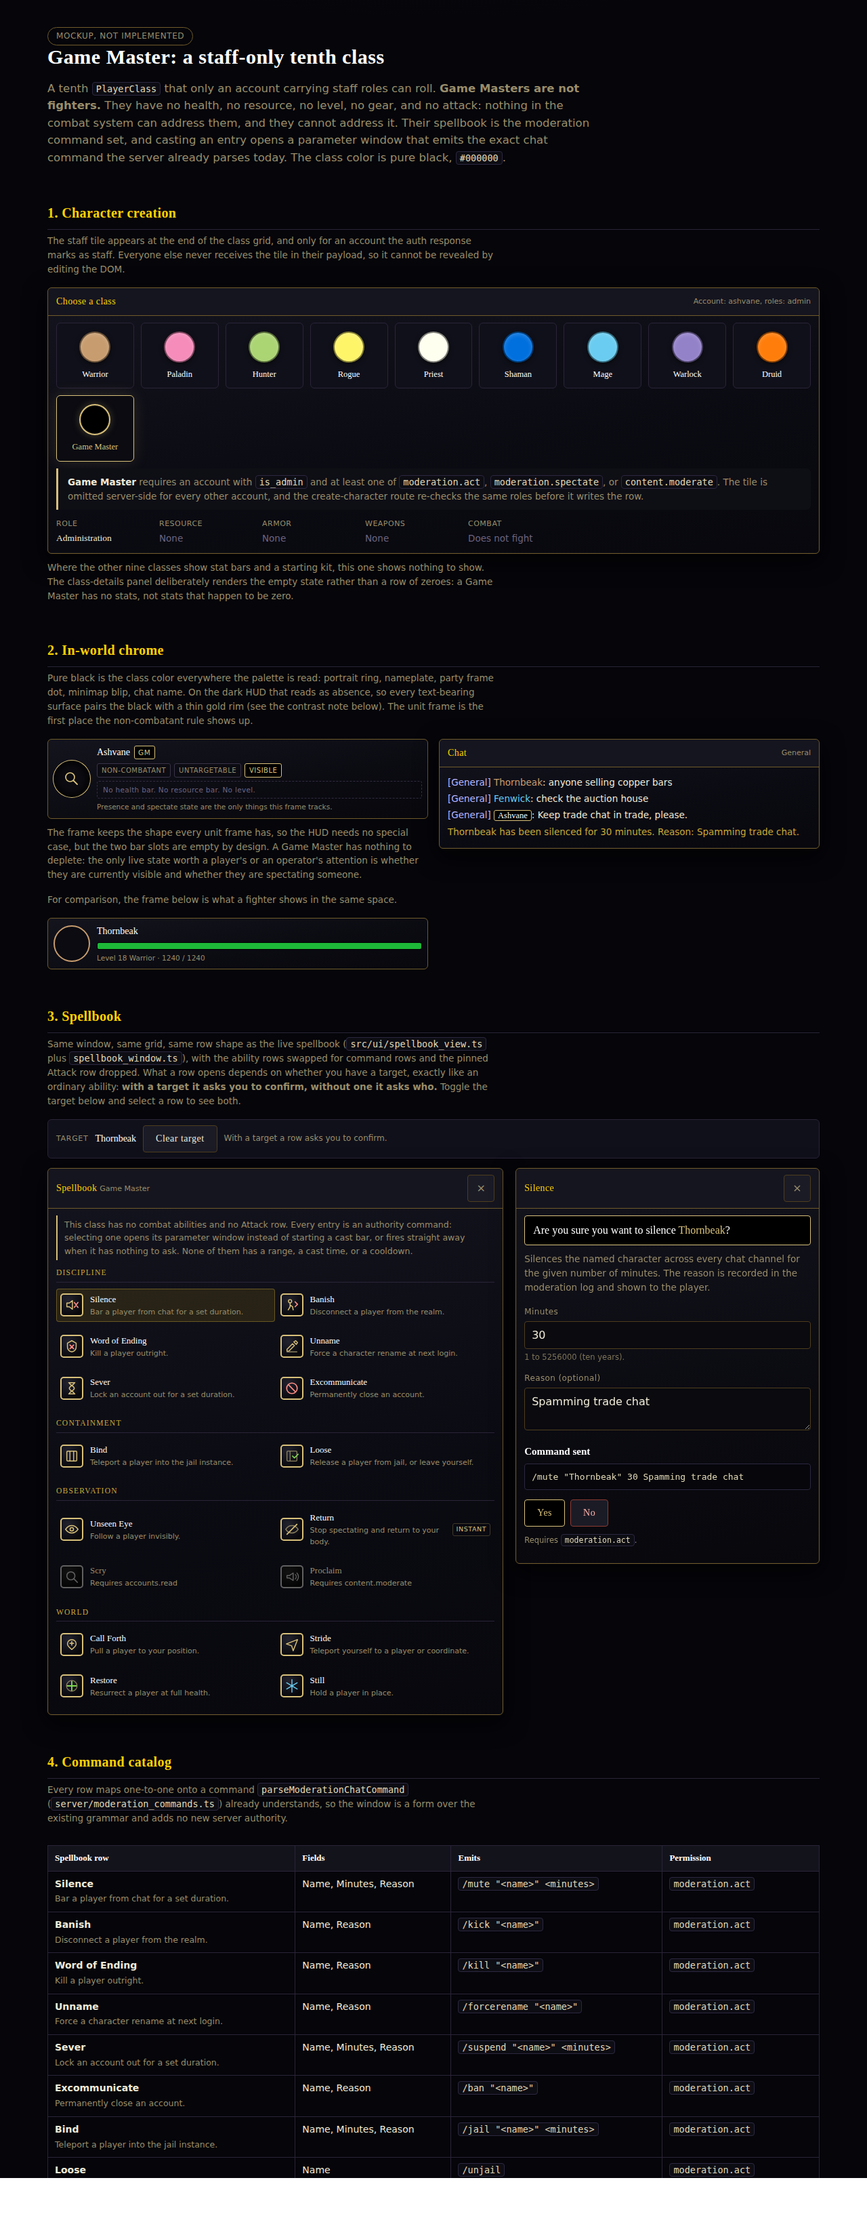
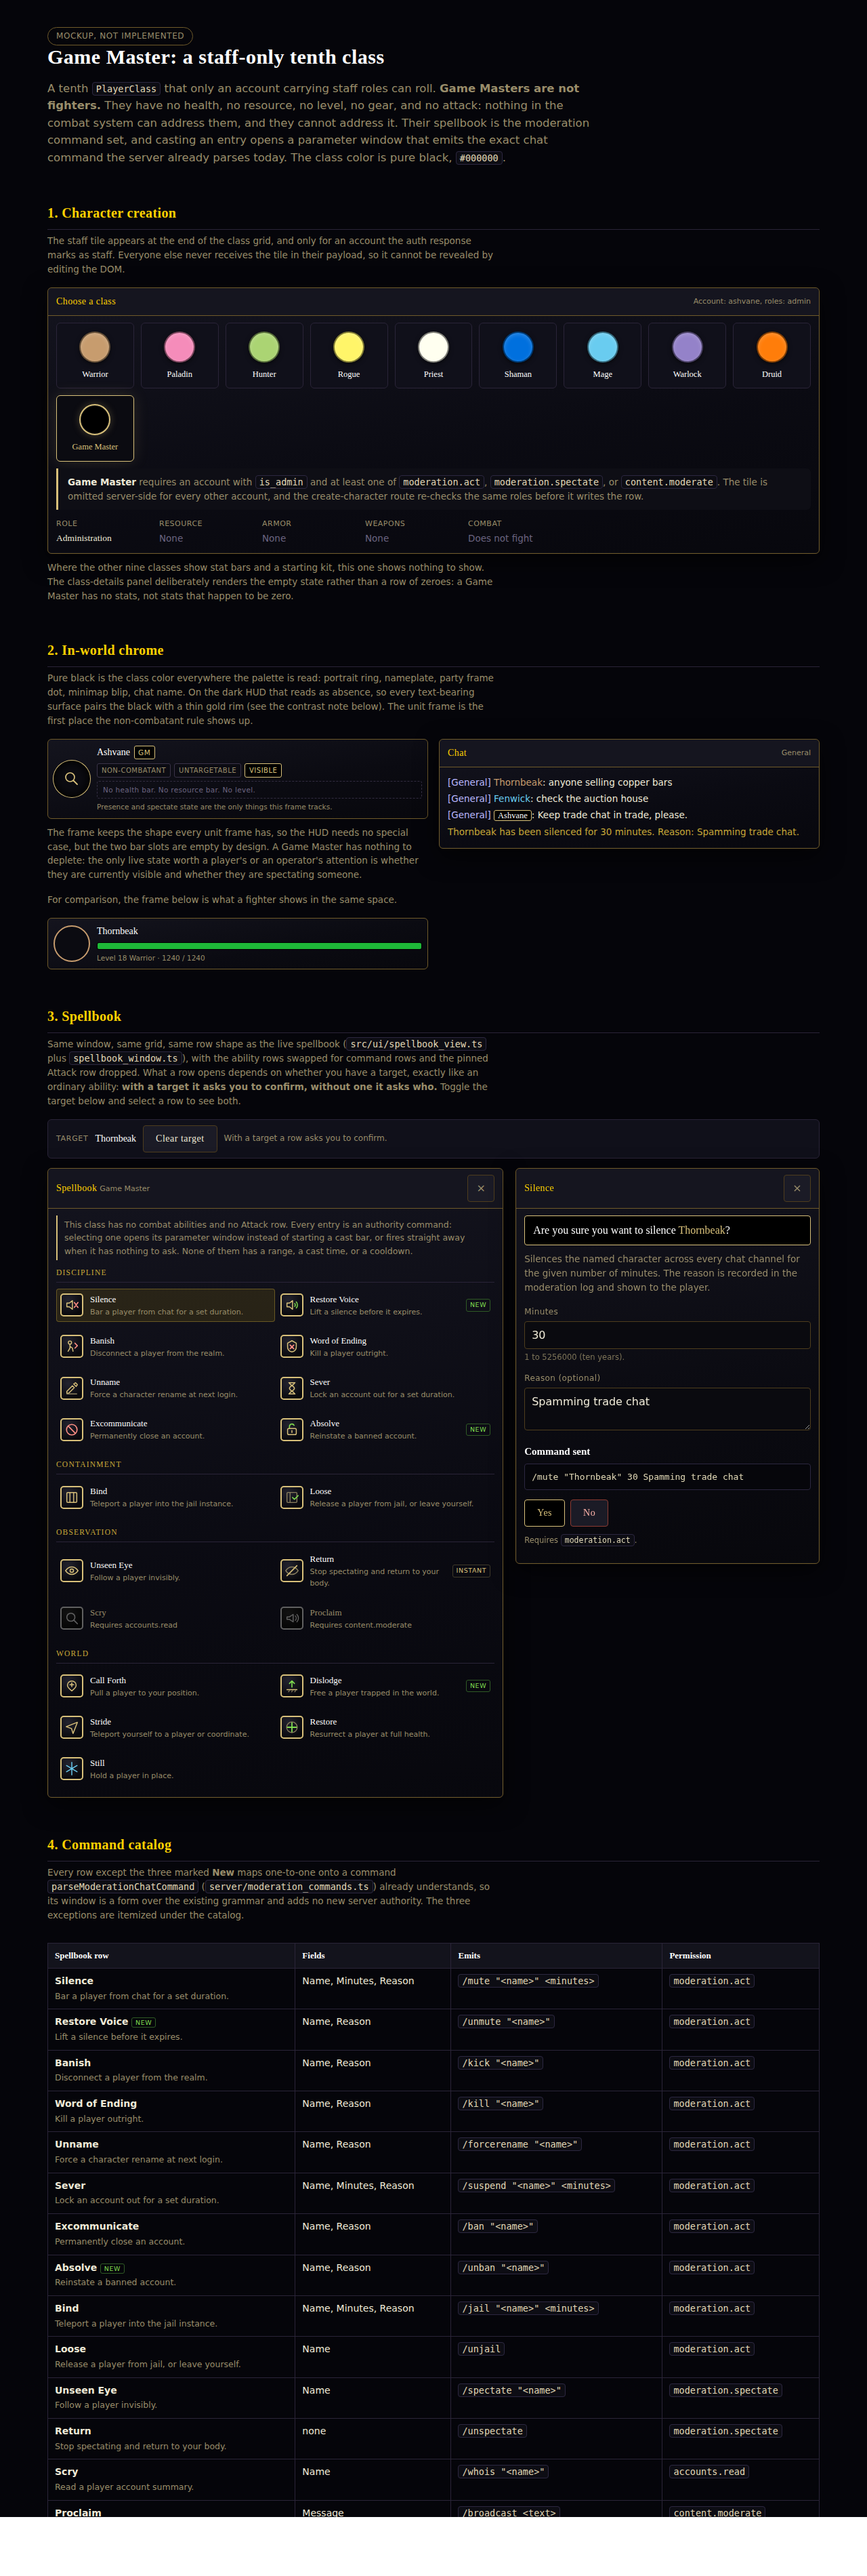
feat(docs): add unmute, unban and unstuck to the Game Master book
Reversals matter as much as sanctions, so the book gains Restore Voice
(/unmute), Absolve (/unban) and Dislodge (/unstuck), paired next to the
rows they undo. None of the three is a chat command today, unlike every
other row, so each carries a New chip and a note in its window saying
what it would actually cost. The catalog caption no longer claims the
whole book maps onto the existing grammar.

Restore Voice and Absolve are cheap: the capability already exists from
the dashboard, and the moderation log already speaks their vocabulary
(chat_unmute and unban are existing ModerationAction values), so the work
is a command parse plus a handler calling the same service. Dislodge is
not cheap and should not ride along with them: nothing in the sim or
server has the concept of being stuck, so the real work is a
deterministic sim-side resolver for where a freed player lands, with the
nearest graveyard the obvious existing anchor. It is also the row most
open to abuse as a convenience teleport, so it stays position-only and
logged like a sanction.

Absolve introduces the first row that ignores the target: a banned
account cannot be logged in, so there is never a target to read and it
always asks for the name. That is a `neverTargeted` flag on the record
rather than a special case in the window, and targetable() now gates the
confirm, field and instant paths through one predicate.

Claude-Session: https://claude.ai/code/session_012bGQz4hsnH1YFBGZWnVcjq

diff --git a/docs/design/game-master-class.html b/docs/design/game-master-class.html
@@ -211,10 +211,16 @@
   .spell-row:hover { background: #ffffff0e; }
   .spell-row:focus-visible { outline: 2px solid var(--color-border-focus); outline-offset: 2px; background: #ffd1001f; }
   .spell-row[aria-current="true"] { background: #ffd1001a; box-shadow: inset 0 0 0 1px #c8a83866; }
-  .instant-chip {
+  .instant-chip, .new-chip {
     flex: none; align-self: center; font-size: 9.5px; letter-spacing: 0.6px; text-transform: uppercase;
     color: var(--gm-rim); border: 1px solid #3f3a2a; border-radius: 3px; padding: 1px 5px;
   }
+  .new-chip { color: #7fdc4f; border-color: #2f5a25; }
+  .proposed-note {
+    margin: 0 0 10px; padding: 8px 12px; border-radius: 0 4px 4px 0;
+    border-left: 3px solid #7fdc4f; background: #0c1410; font-size: 12.5px; color: #cfe6c8;
+  }
+  .proposed-note[hidden] { display: none; }
   .spell-row.locked { cursor: not-allowed; }
   .spell-row.locked .spell-icon { filter: grayscale(1) brightness(0.5); }
   .spell-row.locked .spell-name { color: var(--color-text-muted); }
@@ -308,6 +314,9 @@
     <g id="gl-revive"><path d="M12 4v16M4 12h16" stroke="#7fdc4f" stroke-width="2" stroke-linecap="round"/><circle cx="12" cy="12" r="8.5" fill="none" stroke="#8a7f5e" stroke-width="1.4"/></g>
     <g id="gl-freeze"><path d="M12 2v20M3.5 7l17 10M20.5 7l-17 10" stroke="#69ccf0" stroke-width="1.6" stroke-linecap="round"/></g>
     <g id="gl-whois"><circle cx="10.5" cy="10.5" r="6.5" fill="none" stroke="#d8c07a" stroke-width="1.7"/><path d="M15.5 15.5L21 21" stroke="#d8c07a" stroke-width="1.8" stroke-linecap="round"/></g>
+    <g id="gl-unmute"><path d="M4 9h4l5-4v14l-5-4H4z" fill="none" stroke="#d8c07a" stroke-width="1.6" stroke-linejoin="round"/><path d="M16.5 9.5a4 4 0 010 5M19 7a7.5 7.5 0 010 10" fill="none" stroke="#7fdc4f" stroke-width="1.6" stroke-linecap="round"/></g>
+    <g id="gl-unban"><path d="M8 10V7a4 4 0 017.5-2" fill="none" stroke="#7fdc4f" stroke-width="1.7" stroke-linecap="round"/><rect x="5" y="10" width="14" height="10" rx="2" fill="none" stroke="#d8c07a" stroke-width="1.6"/><path d="M12 13.5v3" stroke="#d8c07a" stroke-width="1.7" stroke-linecap="round"/></g>
+    <g id="gl-unstuck"><path d="M12 14V4M8 8l4-4 4 4" fill="none" stroke="#7fdc4f" stroke-width="1.8" stroke-linecap="round" stroke-linejoin="round"/><path d="M4 18h16" stroke="#d8c07a" stroke-width="1.7" stroke-linecap="round"/><path d="M6.5 21.5l1.5-2M11.5 21.5l1.5-2M16.5 21.5l1.5-2" stroke="#8a7f5e" stroke-width="1.4" stroke-linecap="round"/></g>
     <g id="gl-broadcast"><path d="M4 10v4h4l6 4V6l-6 4z" fill="none" stroke="#d8c07a" stroke-width="1.6" stroke-linejoin="round"/><path d="M17.5 8.5a5 5 0 010 7M20 6a8.5 8.5 0 010 12" fill="none" stroke="#d8c07a" stroke-width="1.5" stroke-linecap="round"/></g>
   </defs>
 </svg>
@@ -451,6 +460,7 @@
         <button type="button" class="x-btn" aria-label="Close command window" id="cmd-close">&times;</button>
       </div>
       <p class="confirm-question" id="cmd-question" hidden></p>
+      <p class="proposed-note" id="cmd-proposed" hidden></p>
       <p class="cap" id="cmd-desc" style="margin-top:0"></p>
       <form id="cmd-form" novalidate></form>
       <h3 style="margin:6px 0 6px">Command sent</h3>
@@ -466,9 +476,10 @@
 
   <h2>4. Command catalog</h2>
   <p class="cap">
-    Every row maps one-to-one onto a command <code>parseModerationChatCommand</code>
-    (<code>server/moderation_commands.ts</code>) already understands, so the window is a form over
-    the existing grammar and adds no new server authority.
+    Every row except the three marked <strong>New</strong> maps one-to-one onto a command
+    <code>parseModerationChatCommand</code> (<code>server/moderation_commands.ts</code>) already
+    understands, so its window is a form over the existing grammar and adds no new server authority.
+    The three exceptions are itemized under the catalog.
   </p>
   <div class="scroll-x">
   <table>
@@ -476,6 +487,41 @@
     <tbody id="catalog-body"></tbody>
   </table>
   </div>
+
+  <h3>The three new rows, and what each one costs</h3>
+  <p>
+    Reversals matter as much as sanctions: a moderator who can only punish has half a tool. These
+    three are not equal in cost, though, and the difference is worth stating before anyone plans the
+    work.
+  </p>
+  <ul>
+    <li><strong>Restore Voice</strong> and <strong>Absolve</strong> are cheap. The capability already
+      exists, just not from in-game: the admin dashboard has both routes, and the moderation log
+      already speaks their vocabulary (<code>chat_unmute</code> and <code>unban</code> are existing
+      <code>ModerationAction</code> values in <code>server/moderation_db.ts</code>). Adding the rows
+      means a chat-command parse plus a handler that calls the same service the dashboard calls. No
+      new authority, and no new audit shape.</li>
+    <li><strong>Dislodge</strong> is not cheap, and should not be waved through with the other two.
+      Nothing in <code>src/sim/</code> or <code>server/</code> has the concept of being stuck, so the
+      command is the small half; the real work is deciding where a freed player lands. That resolver
+      has to be deterministic and sim-side like everything else in the tick, which rules out
+      "nudge them until they fall out." The nearest graveyard
+      (<code>src/sim/content/graveyards.ts</code>) is the obvious existing anchor, since it is
+      already the authored answer to "where does a player legitimately reappear."</li>
+  </ul>
+  <div class="callout warn">
+    <p style="margin:0">
+      Dislodge is also the row most likely to be abused as a convenience teleport, so it should stay
+      position-only and be logged like a sanction. If it can put a player anywhere chosen, it stops
+      being an unstuck tool and becomes Call Forth with a friendlier name.
+    </p>
+  </div>
+  <p>
+    Absolve is the one row that ignores the target entirely. A banned account cannot be logged in, so
+    there is never a target to read; it always asks for the name, even while you have someone
+    selected. Restore Voice keeps the target flow, since a silenced player is usually standing right
+    there.
+  </p>
 
   <h2>5. The non-combatant contract</h2>
   <p class="cap">
@@ -631,6 +677,20 @@
       done: (v) => `${v.name} has been silenced for ${v.minutes} minutes.`
     },
     {
+      id: 'unmute', cat: 'Discipline', glyph: 'gl-unmute', name: 'Restore Voice',
+      sub: 'Lift a silence before it expires.',
+      verb: 'restore the voice of',
+      proposed: true,
+      desc: 'Clears an active chat silence early. The lift is written to the moderation log beside the silence it reverses, so the record shows both halves.',
+      perm: 'moderation.act',
+      fields: [
+        { key: 'name', label: 'Name', kind: 'text', placeholder: 'Thornbeak', value: '', required: true },
+        { key: 'reason', label: 'Reason', kind: 'textarea', placeholder: 'Optional', value: '' }
+      ],
+      build: (v) => `/unmute "${v.name}"${v.reason ? ` ${v.reason}` : ''}`,
+      done: (v) => `${v.name} can speak again.`
+    },
+    {
       id: 'kick', cat: 'Discipline', glyph: 'gl-kick', name: 'Banish',
       sub: 'Disconnect a player from the realm.',
       verb: 'disconnect',
@@ -695,6 +755,20 @@
       ],
       build: (v) => `/ban "${v.name}"${v.reason ? ` ${v.reason}` : ''}`,
       done: (v) => `${v.name} has been banned.`
+    },
+    {
+      id: 'unban', cat: 'Discipline', glyph: 'gl-unban', name: 'Absolve',
+      sub: 'Reinstate a banned account.',
+      verb: 'reinstate',
+      proposed: true, neverTargeted: true,
+      desc: 'Lifts an account ban and lets the account log in again. A banned account cannot be online, so there is never a target to read: this row always asks for the name.',
+      perm: 'moderation.act',
+      fields: [
+        { key: 'name', label: 'Name', kind: 'text', placeholder: 'Thornbeak', value: '', required: true },
+        { key: 'reason', label: 'Reason', kind: 'textarea', placeholder: 'Optional', value: '' }
+      ],
+      build: (v) => `/unban "${v.name}"${v.reason ? ` ${v.reason}` : ''}`,
+      done: (v) => `${v.name} has been reinstated.`
     },
     {
       id: 'jail', cat: 'Containment', glyph: 'gl-jail', name: 'Bind',
@@ -779,6 +853,19 @@
       done: (v) => `${v.name} has been summoned.`
     },
     {
+      id: 'unstuck', cat: 'World', glyph: 'gl-unstuck', name: 'Dislodge',
+      sub: 'Free a player trapped in the world.',
+      verb: 'free',
+      proposed: true,
+      desc: 'Moves a player who is wedged in terrain or geometry to the nearest safe ground. Position only: it changes nothing else about the character, and it is not a teleport the player can aim.',
+      perm: 'moderation.act',
+      fields: [
+        { key: 'name', label: 'Name', kind: 'text', placeholder: 'Thornbeak', value: '', required: true }
+      ],
+      build: (v) => `/unstuck "${v.name}"`,
+      done: (v) => `${v.name} has been moved to safe ground.`
+    },
+    {
       id: 'goto', cat: 'World', glyph: 'gl-goto', name: 'Stride',
       sub: 'Teleport yourself to a player or coordinate.',
       verb: 'teleport to',
@@ -819,6 +906,14 @@
     }
   ];
 
+  // What each new row would actually cost to build. Every other row is a form over a
+  // chat command the server already parses; these three are not, and say so.
+  const PROPOSED_NOTES = {
+    unmute: 'New command. The capability exists (the dashboard chat-unmute route, audited as chat_unmute); this needs the chat-command parse and a handler calling the same service.',
+    unban: 'New command. The capability exists (the dashboard unban route, audited as unban); this needs the chat-command parse and a handler calling the same service.',
+    unstuck: 'New behavior. Nothing in the sim or server has this concept yet, so it needs a deterministic safe-position resolver as well as the command.',
+  };
+
   const bookEl = document.getElementById('spell-book-body');
   const titleEl = document.getElementById('cmd-title');
   const descEl = document.getElementById('cmd-desc');
@@ -827,6 +922,7 @@
   const permEl = document.getElementById('cmd-perm');
   const toastEl = document.getElementById('cmd-toast');
   const questionEl = document.getElementById('cmd-question');
+  const proposedEl = document.getElementById('cmd-proposed');
   const actionsEl = document.getElementById('cmd-actions');
   const applyBtn = document.getElementById('cmd-apply');
   const cancelBtn = document.getElementById('cmd-cancel');
@@ -898,6 +994,9 @@
       // Structurally argument-free rows are instant whatever the target is, so the
       // chip is safe to paint once instead of on every target change.
       if (!cmd.fields.length && !cmd.confirm) row.appendChild(el('span', 'instant-chip', 'Instant'));
+      // The three rows the server has no chat command for yet, marked so the mockup
+      // never implies they already exist.
+      if (cmd.proposed) row.appendChild(el('span', 'new-chip', 'New'));
       row.addEventListener('click', () => { select(cmd, true); });
       const item = document.createElement('li');
       item.appendChild(row);
@@ -931,19 +1030,23 @@
     return out;
   }
 
-  /** A command acts on a player when it carries a `name` field. */
-  function actsOnPlayer(cmd) {
-    return cmd.fields.some((f) => f.key === 'name');
+  /**
+   * A command can be aimed at the target when it carries a `name` field, unless it
+   * acts on someone who cannot be standing in front of you. A banned account is
+   * never online, so Absolve always asks for the name however you got here.
+   */
+  function targetable(cmd) {
+    return !cmd.neverTargeted && cmd.fields.some((f) => f.key === 'name');
   }
 
-  /** With a target selected, a player-facing command asks you to confirm, not to type. */
+  /** With a target selected, a targetable command asks you to confirm, not to type. */
   function confirmMode() {
-    return target !== null && actsOnPlayer(active);
+    return target !== null && targetable(active);
   }
 
   /** The fields the window would actually render for `cmd` right now. */
   function shownFields(cmd) {
-    const confirming = target !== null && actsOnPlayer(cmd);
+    const confirming = target !== null && targetable(cmd);
     return confirming ? cmd.fields.filter((f) => f.key !== 'name') : cmd.fields;
   }
 
@@ -954,7 +1057,7 @@
    */
   function isInstant(cmd) {
     if (cmd.confirm) return false;
-    if (target !== null && actsOnPlayer(cmd)) return false;
+    if (target !== null && targetable(cmd)) return false;
     return shownFields(cmd).length === 0;
   }
 
@@ -1030,6 +1133,8 @@
     descEl.textContent = cmd.desc;
     permEl.innerHTML = 'Requires <code>' + cmd.perm + '</code>' +
       (cmd.dev ? ', and the world-command set (dev builds only).' : '.');
+    proposedEl.hidden = !cmd.proposed;
+    if (cmd.proposed) proposedEl.textContent = PROPOSED_NOTES[cmd.id];
     pending = null;
     if (isInstant(cmd)) {
       renderInstant(cmd, fire === true);
@@ -1116,7 +1221,8 @@
         ? cmd.fields.map((f) => f.label).join(', ')
         : 'none';
       tr.innerHTML =
-        '<td><strong>' + cmd.name + '</strong><br><span style="color:#998d6a;font-size:12.5px">' + cmd.sub + '</span></td>' +
+        '<td><strong>' + cmd.name + '</strong>' + (cmd.proposed ? ' <span class="new-chip">New</span>' : '') +
+        '<br><span style="color:#998d6a;font-size:12.5px">' + cmd.sub + '</span></td>' +
         '<td>' + fields + '</td>' +
         '<td><code>' + cmd.build(placeholdersFor(cmd)).replace(/</g, '&lt;') + '</code></td>' +
         '<td><code>' + cmd.perm + '</code></td>';
